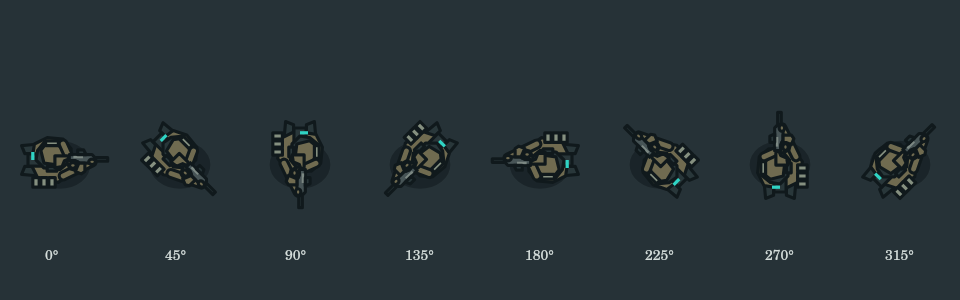
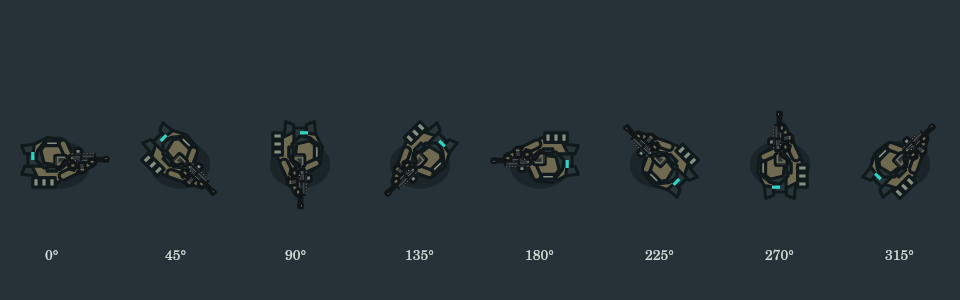
개선: 주무기 구조 묘사와 실제 상태 기반 장전·작업 동작

diff --git a/artifacts/draft-order-player-generator/src/components/weaponParts.ts b/artifacts/draft-order-player-generator/src/components/weaponParts.ts
@@ -1,39 +1,145 @@
 // 축척은 중계 식별용입니다. 총구는 원점, 개머리판은 음의 X, 탄창은 양의 Y입니다.
 type Point=[number,number];
 type WeaponPart={id:string;length:number;body:Point[];stock:Point[];mag:Point[];grip:number;support:number;barrel:number;suppressor?:boolean;optic:'dot'|'scope'|'rail';color:string};
-const ar:Point[]=[[-32,-4],[-13,-4],[-11,-2],[-12,3],[-23,3],[-27,1],[-32,1]];
-const stock:Point[]=[[-44,-3],[-34,-3],[-31,-1],[-36,1],[-38,6],[-44,7]];
-const mag:Point[]=[[-24,3],[-19,3],[-19,10],[-22,12],[-27,10]];
+const ar:Point[]=[[-32,-3],[-30,-4],[-14,-4],[-12,-3],[-11,-1],[-12,2],[-20,2],[-21,4],[-24,4],[-25,2],[-28,1],[-31,1],[-32,0]];
+const stock:Point[]=[[-44,-3],[-42,-3.5],[-35,-3.5],[-34,-2],[-31,-2],[-31,0],[-36,1],[-37,2],[-39,6],[-43,6.5],[-44,5]];
+const mag:Point[]=[[-24,3],[-19,3],[-18.8,6],[-18,9],[-20,11],[-24.5,11.5],[-25,10],[-22.5,9],[-23.5,6]];
 const w=(id:string,length:number,body:Point[],rear:Point[],magazine:Point[],grip:number,support:number,barrel:number,optic:WeaponPart['optic'],color:string,suppressor=false):WeaponPart=>({id,length,body,stock:rear,mag:magazine,grip,support,barrel,optic,color,suppressor});
 export const WEAPON_PARTS:WeaponPart[]=[
  w('L119',44,ar,stock,mag,-29,-13,10,'dot','#656953'),
- w('MP5SD',40,[[-28,-3],[-15,-3],[-14,2],[-25,3],[-29,1]],[[-40,-3],[-29,-3],[-28,0],[-35,1],[-37,6],[-40,6]],[[-23,3],[-19,3],[-17,10],[-20,13],[-25,5]],-27,-14,15,'rail','#485455',true),
- w('HK416',43,[[-31,-4],[-9,-4],[-8,2],[-23,3],[-28,1],[-31,1]],stock,mag,-29,-13,7,'dot','#505C60'),
+ w('MP5SD',40,[[-28,-3],[-15,-3],[-14,2],[-25,3],[-29,1]],[[-40,-3],[-39,-3.5],[-31,-3],[-29,-2],[-28,0],[-32,1],[-35,1.5],[-37,5],[-39.5,5.5],[-40,4]],[[-23,3],[-19,3],[-17,10],[-20,13],[-25,5]],-27,-14,15,'rail','#485455',true),
+ w('HK416',43,[[-31,-3],[-29,-4],[-10,-4],[-9,-3],[-8,0],[-9,2],[-21,2],[-22,3.5],[-25,3.5],[-26,2],[-28,1],[-31,1]],stock,mag,-29,-13,7,'dot','#505C60'),
  w('X95',36,[[-35,-6],[-10,-6],[-7,-3],[-10,3],[-20,3],[-24,0],[-35,3]],[[-36,-5],[-32,-5],[-32,5],[-36,6]],[[-30,3],[-25,3],[-24,11],[-29,12]],-20,-10,6,'dot','#827D60'),
- w('MPX',35,[[-26,-4],[-9,-4],[-8,1],[-22,3],[-26,1]],[[-35,-3],[-28,-3],[-25,0],[-31,1],[-33,5],[-35,5]],[[-20,3],[-17,3],[-18,12],[-22,12]],-25,-10,7,'dot','#53656B'),
+ w('MPX',35,[[-26,-4],[-9,-4],[-8,1],[-22,3],[-26,1]],[[-35,-3],[-34,-3.5],[-29,-3],[-28,-2],[-25,-1],[-25,0],[-30,1],[-32,4.5],[-34,5],[-35,4]],[[-20,3],[-17,3],[-18,12],[-22,12]],-25,-10,7,'dot','#53656B'),
  w('AS Val',44,[[-32,-3],[-19,-3],[-17,0],[-20,3],[-29,2]],[[-44,-3],[-34,-3],[-31,0],[-39,1],[-41,5],[-44,5]],[[-27,3],[-22,3],[-20,9],[-23,12],[-29,7]],-31,-17,18,'rail','#515A4C',true),
  w('HK417',48,[[-34,-4],[-11,-4],[-10,2],[-26,3],[-31,1]],stock,[[-27,3],[-20,3],[-20,11],[-27,11]],-32,-14,9,'scope','#596360'),
- w('PSG',53,[[-38,-3],[-20,-3],[-12,-1],[-15,2],[-35,3]],[[-53,-4],[-42,-4],[-36,0],[-43,2],[-43,8],[-52,8]],[[-30,3],[-24,3],[-24,8],[-30,8]],-38,-18,12,'scope','#4B5653'),
+ w('PSG',53,[[-38,-3],[-20,-3],[-12,-1],[-15,2],[-35,3]],[[-53,-3],[-51,-4],[-44,-3],[-42,-2],[-40,-1],[-36,0],[-38,2],[-42,2],[-44,4],[-45,6],[-52,7],[-53,6]],[[-30,3],[-24,3],[-24,8],[-30,8]],-38,-18,12,'scope','#4B5653'),
  w('P90',33,[[-32,-6],[-10,-6],[-7,-3],[-9,4],[-17,6],[-25,3],[-32,5]],[[-33,-5],[-30,-5],[-30,6],[-33,6]],[[-29,-9],[-10,-9],[-10,-6],[-29,-6]],-23,-11,6,'rail','#6D7360'),
- w('C14',57,[[-40,-3],[-23,-3],[-21,-1],[-12,-1],[-12,2],[-39,3]],[[-57,-4],[-43,-4],[-38,0],[-44,2],[-47,7],[-57,7]],[[-30,3],[-24,3],[-24,7],[-30,7]],-39,-20,12,'scope','#8A8165'),
+ w('C14',57,[[-40,-3],[-23,-3],[-21,-1],[-12,-1],[-12,2],[-39,3]],[[-57,-2],[-55,-3],[-48,-3],[-45,-2],[-43,-1],[-38,0],[-37,2],[-40,3],[-42,2],[-45,3],[-48,6],[-55,7],[-57,6]],[[-30,3],[-24,3],[-24,7],[-30,7]],-39,-20,12,'scope','#8A8165'),
  w('K1A',41,[[-29,-3],[-14,-3],[-10,0],[-14,3],[-26,2]],[[-41,-3],[-30,-3],[-28,-1],[-39,-1],[-39,5],[-41,5]],[[-23,3],[-18,3],[-18,9],[-21,12],[-26,10]],-28,-14,10,'rail','#586455'),
- w('ARX',42,[[-33,-5],[-15,-5],[-10,-2],[-11,3],[-25,4],[-33,1]],[[-42,-3],[-33,-3],[-30,0],[-36,2],[-39,7],[-42,6]],mag,-30,-12,9,'dot','#726F5C'),
+ w('ARX',42,[[-33,-5],[-15,-5],[-10,-2],[-11,3],[-25,4],[-33,1]],[[-42,-3],[-40,-4],[-35,-3],[-33,-2],[-30,-1],[-30,1],[-35,2],[-37,3],[-39,6],[-41,6],[-42,5]],mag,-30,-12,9,'dot','#726F5C'),
 ];
 export function weaponPart(name:string):WeaponPart{return WEAPON_PARTS.find(part=>name.includes(part.id))??WEAPON_PARTS[0];}
-// 전장에서는 이 도형을 몸체와 함께 회전합니다. 화면 기준 좌우 반전은 하지 않습니다.
-export function paintWeaponPart(ctx:CanvasRenderingContext2D,name:string,accent?:string,outline=2):void{
- const part=weaponPart(name),ink='#10191C',base='#475456',shade='#29373A',tint=accent??part.color;
- ctx.strokeStyle=ink;ctx.lineWidth=outline;ctx.lineJoin='round';
- const poly=(points:Point[],fill:string)=>{ctx.fillStyle=fill;ctx.beginPath();points.forEach(([x,y],i)=>i?ctx.lineTo(x,y):ctx.moveTo(x,y));ctx.closePath();ctx.fill();ctx.stroke();};
- const box=(x:number,y:number,w:number,h:number,fill:string)=>{ctx.fillStyle=fill;ctx.fillRect(x,y,w,h);ctx.strokeRect(x,y,w,h);};
- poly(part.stock,tint);poly(part.body,base);poly(part.mag,tint);
- poly([[part.grip,1],[part.grip+4,2],[part.grip+2,9],[part.grip-2,8]],shade);
- box(-part.barrel,-(part.suppressor?3:1.5),part.barrel,part.suppressor?6:3,shade);
- // 잔선 대신 리시버 상면과 광학 장치만 큰 면으로 남깁니다.
- ctx.fillStyle='#7C8883';ctx.fillRect(-part.length*.65,-3,8,2);
- if(part.optic==='scope'){box(-part.length*.72,-9,17,4,shade);}
- if(part.optic==='dot')poly([[-25,-4],[-25,-8],[-20,-8],[-18,-4]],shade);
- if(part.id==='P90'){ctx.fillStyle='#8E957E';ctx.fillRect(-28,-8,16,2);ctx.fillStyle=shade;ctx.beginPath();ctx.ellipse(-19,2,3,2,0,0,Math.PI*2);ctx.fill();}
- // 손도 군장과 같은 저채도 강조색을 사용합니다.
- ctx.fillStyle=tint;for(const [x,y] of [[part.grip,5],[part.support,2]]){ctx.beginPath();ctx.ellipse(x,y,2.8,2.3,0,0,Math.PI*2);ctx.fill();ctx.stroke();}
+export interface WeaponPose { hands?:boolean; magazineTravel?:number; }
+// 외형 구조는 총종별로 분리합니다. 장식용 잔선 대신 재질·결합부·음각을 그립니다.
+export function paintWeaponPart(ctx:CanvasRenderingContext2D,name:string,accent?:string,outline=2,pose:WeaponPose={}):void{
+ const part=weaponPart(name),ink='#101518',metal='#43494B',edge='#727B7C',dark='#272D30',polymer=part.color,tape=accent??part.color;
+ ctx.save();ctx.strokeStyle=ink;ctx.lineWidth=outline;ctx.lineJoin='round';
+ const poly=(points:Point[],fill:string,stroke=true)=>{ctx.fillStyle=fill;ctx.beginPath();points.forEach(([x,y],i)=>i?ctx.lineTo(x,y):ctx.moveTo(x,y));ctx.closePath();ctx.fill();if(stroke)ctx.stroke();};
+ const box=(x:number,y:number,w:number,h:number,fill:string,stroke=true)=>{ctx.fillStyle=fill;ctx.fillRect(x,y,w,h);if(stroke)ctx.strokeRect(x,y,w,h);};
+ const line=(points:Point[],color:string,width=.65)=>{ctx.strokeStyle=color;ctx.lineWidth=width;ctx.beginPath();points.forEach(([x,y],i)=>i?ctx.lineTo(x,y):ctx.moveTo(x,y));ctx.stroke();ctx.strokeStyle=ink;ctx.lineWidth=outline;};
+ const circle=(x:number,y:number,r:number,fill:string)=>{ctx.fillStyle=fill;ctx.beginPath();ctx.arc(x,y,r,0,Math.PI*2);ctx.fill();};
+ const arFamily=['L119','HK416','HK417','MPX'].includes(part.id);
+ // 개머리판의 빈 공간은 실제 구멍으로 남겨 바닥색이 보입니다.
+ const frame=(outer:Point[],inner:Point[],fill:string)=>{ctx.fillStyle=fill;ctx.beginPath();for(const points of [outer,inner]){points.forEach(([x,y],i)=>i?ctx.lineTo(x,y):ctx.moveTo(x,y));ctx.closePath();}ctx.fill('evenodd');ctx.stroke();};
+ if(part.id==='AS Val'){
+  frame([[-44,-3],[-33,-3],[-30,0],[-40,5],[-44,5]],[[-42,-1],[-35,-1],[-33,0],[-41,3],[-42,3]],dark);
+ }else if(part.id==='K1A'){
+  line([[-29,-2],[-41,-2],[-41,5]],ink,outline+1);line([[-29,-2],[-41,-2],[-41,5]],edge,.8);
+ }else{
+  poly(part.stock,polymer);
+  const rear=-part.length;
+  box(rear,-2,1.5,7,dark,false);
+  if(arFamily){
+   poly([[rear+3,-1],[rear+9,-1],[rear+6,1],[rear+3,3]],dark,false);
+   line([[rear+2,-2],[rear+8,-2]],edge);box(-34,-2,4,2,dark,false);
+  }
+ }
+ if(part.id==='PSG'||part.id==='C14'){
+  box(-part.length+2,-5,10,3,polymer);line([[-part.length+4,-4],[-part.length+10,-4]],edge);
+  if(part.id==='PSG'){box(-part.length,-1,2,9,dark,false);box(-40,8,7,2,polymer);}
+ }
+ // 하부 손잡이·방아쇠울과 리시버를 분리합니다. 불펍과 P90은 고유 구조입니다.
+ if(part.id==='P90'){
+  frame([[-32,-5],[-9,-5],[-7,-2],[-9,6],[-15,7],[-22,4],[-29,7],[-32,5]],[[-26,0],[-22,-1],[-20,1],[-22,4],[-26,4]],polymer);
+  frame([[-17,-1],[-9,-1],[-10,6],[-15,6]],[[-15,1],[-11,1],[-12,4],[-14,4]],polymer);
+ }else{
+  frame([[part.grip+1,1],[part.grip+9,1],[part.grip+8,7],[part.grip+2,7]],[[part.grip+3,2],[part.grip+7,2],[part.grip+6,5],[part.grip+3,5]],dark);
+  poly([[part.grip,1],[part.grip+3,2],[part.grip+1,9],[part.grip-3,8]],part.id==='PSG'?'#716653':dark);
+  poly(part.body,part.id==='X95'||part.id==='ARX'?polymer:metal);
+  line([[part.grip+4,2],[part.grip+4.5,3.5],[part.grip+3.5,4]],edge,.6);
+ }
+ box(-part.barrel,-(part.suppressor?2.7:1),part.barrel,part.suppressor?5.4:2,dark);
+ if(part.suppressor){
+  box(-part.barrel+.8,-2.2,part.barrel-2,1.3,metal,false);
+  line([[-1.5,-2.3],[-1.5,2.3]],edge,.7);
+ }else{
+  box(-2.8,-1.5,2.8,3,dark);line([[-2,-.8],[-1,-.8]],edge,.6);
+ }
+ const front=-part.barrel-1;
+ if(arFamily){
+  const start=part.id==='HK417'?-24:part.id==='MPX'?-17:-22;
+  poly([[start,-4],[front,-4],[front,2],[start,2]],dark);
+  box(start+.8,-3.3,front-start-1.5,1.1,metal,false);
+  for(let x=start+1.8;x<front-1;x+=3.4)box(x,-1.5,1.8,1.2,ink,false);
+  line([[start+.7,1],[front-.7,1]],edge,.55);
+  box(part.grip+1,-2.7,5.5,1.8,ink,false);box(part.grip+1.4,-2.4,4.5,.6,edge,false);
+  line([[part.grip-1,0],[start-1,0],[start-1,2]],dark,.65);
+  circle(part.grip-1,-1,.65,edge);circle(part.grip+2,1,.6,edge);
+  // 레일은 실제 장착부의 짧은 돌기만 남깁니다.
+  box(part.grip-2,-5,front-part.grip+2,1,dark,false);
+  for(let x=part.grip-1;x<front;x+=2.5)box(x,-5.2,.8,.7,edge,false);
+ }else if(part.id==='MP5SD'){
+  box(-18,-3.6,5.5,7,dark);for(let x=-17;x<-13;x+=1.4)line([[x,-2.6],[x,2.5]],metal,.6);
+  box(-27,-2.5,6,1.6,dark,false);line([[-27,-2.6],[-21,-2.6]],edge);
+  line([[-24,-4],[-19,-4],[-18,-5]],edge,1);
+  frame([[-15,-3],[-15,-6],[-12,-6],[-12,-3]],[[-14,-3.5],[-14,-5],[-13,-5],[-13,-3.5]],dark);
+ }else if(part.id==='AS Val'){
+  line([[-31,-2],[-21,-2]],edge,1);box(-26,-1.5,5,1.5,dark,false);
+  poly([[-21,-2],[-17,-2],[-16,3],[-21,3]],polymer);
+  box(-12,-4,2,1.5,dark);box(-30,-4,3,1.5,dark);
+ }else if(part.id==='X95'){
+  box(-34,-4,2,7,dark,false);box(-31,-4,8,1.7,dark,false);line([[-30,-3.7],[-25,-3.7]],edge);
+  frame([[-22,1],[-12,1],[-13,8],[-19,9]],[[-19,3],[-14,3],[-15,6],[-18,6]],polymer);
+  for(let x=-17;x<-10;x+=2.8)box(x,-3,1.4,2,dark,false);
+  box(-28,-7,17,1.2,dark,false);
+ }else if(part.id==='ARX'){
+  poly([[-32,-3.8],[-18,-3.8],[-13,-1.2],[-26,-1.2]],metal,false);
+  box(-30,-2.6,7,1.4,dark,false);line([[-29,-2.4],[-25,-2.4]],edge);
+  for(let x=-19;x<-12;x+=2.6)box(x,-.5,1.2,1.7,dark,false);
+  line([[-32,-3],[-32,1]],edge,1);box(-29,-6,16,1.1,dark,false);
+ }else if(part.id==='K1A'){
+  poly([[-19,-3],[-14,-3],[-10,0],[-14,3],[-19,2]],dark);
+  for(let x=-17;x<-12;x+=2)line([[x,-1],[x,1]],edge,.55);
+  box(-27,-2,6,1.4,dark,false);line([[-27,-2],[-23,-2]],edge);
+  frame([[-11,-1],[-11,-5],[-9,-5],[-8,-1]],[[-10,-1],[-10,-3.5],[-9.5,-3.5],[-9,-1]],dark);
+ }else if(part.id==='PSG'||part.id==='C14'){
+  poly([[-25,-1],[-14,-1],[-15,3],[-23,3]],polymer,false);
+  line([[-37,-2],[-26,-2]],edge,1);
+  if(part.id==='C14'){line([[-31,0],[-30,3]],edge,1.2);circle(-30,3,1.1,dark);}
+  else{box(-34,-1.5,6,1.5,dark,false);line([[-22,1],[-15,1]],dark,.7);}
+ }
+ // 탄창을 독립 파츠로 조립합니다. P90만 상부로 분리됩니다.
+ const travel=pose.magazineTravel??0,magY=part.id==='P90'?-travel:travel;
+ ctx.save();ctx.translate(0,magY);
+ poly(part.mag,part.id==='P90'?'#77775F':part.id==='AS Val'?'#343C34':dark);
+ if(part.id==='P90'){
+  box(-28,-8.4,16,1.6,'#98977A',false);
+  for(let x=-27;x<-12;x+=2.5)line([[x,-8.2],[x+.7,-7]],'#5B5A47',.7);
+ }else{
+  const mx=part.mag[0][0],my=part.mag[0][1];
+  line([[mx+1.4,my+1.2],[mx+2.2,my+5]],metal,.8);
+  line([[mx+3,my+1.2],[mx+3.8,my+5]],metal,.8);
+  // 장비색은 작은 식별 테이프만 사용합니다. 금속 탄창 전체를 팀색으로 칠하지 않습니다.
+  poly([[mx+1,my+5],[mx+4,my+5],[mx+4.5,my+6.2],[mx+1.5,my+6.2]],tape,false);
+ }
+ ctx.restore();
+ if(part.optic==='scope'){
+  const x=-part.length*.72;
+  box(x+3,-6,2,2,dark);box(x+11,-6,2,2,dark);
+  poly([[x,-9],[x+4,-9],[x+5,-8],[x+12,-8],[x+14,-10],[x+19,-10],[x+19,-5],[x+14,-5],[x+12,-6],[x+5,-6],[x+4,-5],[x,-5]],dark);
+  line([[x+1,-8],[x+4,-8],[x+5,-7],[x+12,-7]],edge,.7);box(x+8,-10,2.5,2,dark);box(x+17,-9,1,3,metal,false);
+ }else if(part.optic==='dot'){
+  const x=part.id==='X95'?-20:part.id==='MPX'?-23:-27;
+  poly([[x,-4.5],[x,-8],[x+1,-9],[x+4,-9],[x+5,-8],[x+5,-4.5]],dark);
+  box(x+1,-7.8,2.5,2.1,'#7C8D87',false);box(x-.5,-5,6,1,dark,false);
+ }else if(part.id==='P90'){
+  frame([[-23,-9],[-23,-13],[-12,-13],[-10,-9]],[[-21,-10],[-21,-11.5],[-14,-11.5],[-13,-10]],dark);
+ }
+ if(pose.hands!==false){
+  const mx=(part.mag[0][0]+part.mag[1][0])/2;
+  const hands:Point[]=[[part.grip,5],travel>0?[mx,(part.id==='P90'?-7:6)+magY]:[part.support,2]];
+  ctx.fillStyle=tape;for(const [x,y] of hands){ctx.beginPath();ctx.ellipse(x,y,2.8,2.3,0,0,Math.PI*2);ctx.fill();ctx.stroke();}
+ }
+ ctx.restore();
 }

diff --git a/artifacts/draft-order-player-generator/src/components/minimalOperator.ts b/artifacts/draft-order-player-generator/src/components/minimalOperator.ts
@@ -1,4 +1,4 @@
-import type { RealtimeUnitState } from '../domain/realtime/TacticalRealtimeSimulation';
+import type { RealtimeUnitState, RealtimeGadget } from '../domain/realtime/TacticalRealtimeSimulation';
 import { paintWeaponPart, weaponPart } from './weaponParts';
 import { muzzlePosition } from '../domain/operatorVisuals';
 
@@ -37,10 +37,24 @@ export function weaponSilhouette(name:string):'carbine'|'suppressed'|'bullpup'|'
   return 'carbine';
 }
 
+export interface OperatorMotion { reloadStartedAt?:number; thrown?:RealtimeGadget; }
+
 /** 가파른 탑뷰의 한 로컬 좌표계를 머리·군장·팔·총기가 연속적으로 공유합니다. */
-export function paintMinimalOperator(ctx:CanvasRenderingContext2D,unit:RealtimeUnitState,time:number,shotAt:number|undefined,_asset:PartLoader,reducedMotion=false):boolean {
+export function paintMinimalOperator(ctx:CanvasRenderingContext2D,unit:RealtimeUnitState,time:number,shotAt:number|undefined,_asset:PartLoader,reducedMotion=false,motion:OperatorMotion={}):boolean {
   const kit=KITS[unit.callSign]??KITS.MAGPIE,part=weaponPart(unit.weaponName??'');
-  const down=Boolean(unit.downed)||!unit.alive,crouch=unit.locomotion==='crouch';
+  const down=Boolean(unit.downed)||!unit.alive;
+  const installing=!down&&(unit.action==='plant'||unit.action==='disable'||unit.action==='utility'&&/설치/.test(unit.goal??''));
+  const crouch=unit.locomotion==='crouch'||installing;
+  // 시작 사건과 남은 시간으로 진행률을 계산하므로 정지·탐색에서도 같은 자세입니다.
+  const elapsed=motion.reloadStartedAt===undefined?0:Math.max(0,time-motion.reloadStartedAt);
+  const reload=!down&&unit.action==='reload'&&unit.reloadRemaining>0;
+  const progress=reload?elapsed/Math.max(.001,elapsed+unit.reloadRemaining):0;
+  const travel=reload&&!reducedMotion?Math.sin(Math.PI*progress)*9:0;
+  const thrown=motion.thrown;
+  const throwAge=thrown?.thrownAt===undefined?-1:time-thrown.thrownAt;
+  // 이미 발사된 투척물의 후속 팔 동작만 표시합니다. 가짜 수류탄을 손에 생성하지 않습니다.
+  const throwing=!down&&!reload&&!installing&&throwAge>=0&&throwAge<.45;
+  const throwReach=throwing?(reducedMotion?8:15*(1-throwAge/.45)):0;
   const moving=Math.hypot(unit.velocity.x,unit.velocity.y)>1&&unit.alive;
   const step=!reducedMotion&&moving&&!down?Math.sin(time*(unit.locomotion==='sprint'?15:10)):0;
   const age=shotAt===undefined?1:time-shotAt,kick=!reducedMotion&&age>0&&age<.14?Math.sin(age/.14*Math.PI)*1.2:0;
@@ -76,13 +90,24 @@ export function paintMinimalOperator(ctx:CanvasRenderingContext2D,unit:RealtimeU
   box(-9,-12,8,3,light);box(-8,4,6,3,shade);
   ctx.fillStyle=unit.side==='공격'?'#2FD4C4':'#F0873C';ctx.fillRect(-18,-5,2,5);
   if(!down){
-    for(const [index,[x,y]] of [[part.grip-kick,5],[part.support-kick,2]].entries()){
+    const magX=(part.mag[0][0]+part.mag[1][0])/2;
+    const support=travel>0?[magX,(part.id==='P90'?-7-travel:6+travel)]:[part.support,2];
+    for(const [index,[x,y]] of [[part.grip-kick,5],[support[0]-kick,support[1]]].entries()){
+      if(installing||throwing&&index===1)continue;
       const hand={x:tip.x+x*.75,y:tip.y+y*.75},shoulder={x:2,y:index?10:-10};
       ctx.strokeStyle=ink;ctx.lineWidth=7;ctx.beginPath();ctx.moveTo(shoulder.x,shoulder.y);ctx.lineTo(hand.x,hand.y);ctx.stroke();ctx.strokeStyle=kit.color;ctx.lineWidth=3;ctx.stroke();
     }
     // 무기는 언제나 전방에 그립니다. 270도도 별도 가림·거울 반전 분기가 없습니다.
-    ctx.save();ctx.translate(tip.x,tip.y);ctx.scale(.75,.75);ctx.translate(-kick,0);paintWeaponPart(ctx,unit.weaponName??'',kit.color,outline/.75);
+    ctx.save();ctx.translate(tip.x,tip.y);if(installing){ctx.translate(-9,14);ctx.rotate(-.25);}ctx.scale(.75,.75);ctx.translate(-kick,0);paintWeaponPart(ctx,unit.weaponName??'',kit.color,outline/.75,{hands:!installing&&!throwing,magazineTravel:travel});
     if(unit.shieldRaised){ctx.fillStyle=shade;ctx.strokeStyle=ink;ctx.lineWidth=outline/.75;ctx.fillRect(-5,-18,7,36);ctx.strokeRect(-5,-18,7,36);ctx.fillStyle=light;ctx.fillRect(-4,-9,5,9);}ctx.restore();
+    if(installing||throwing){
+      const hands=installing?[[13,-6],[13,7]]:[[tip.x+(part.grip-kick)*.75,tip.y+3.75],[15+throwReach,13]];
+      for(const [index,[x,y]] of hands.entries()){
+        ctx.strokeStyle=ink;ctx.lineWidth=7;ctx.beginPath();ctx.moveTo(2,index?10:-10);ctx.lineTo(x,y);ctx.stroke();ctx.strokeStyle=kit.color;ctx.lineWidth=3;ctx.stroke();
+        ctx.fillStyle=kit.color;ctx.strokeStyle=ink;ctx.lineWidth=outline;ctx.beginPath();ctx.ellipse(x,y,2.7,2.2,0,0,Math.PI*2);ctx.fill();ctx.stroke();
+      }
+      // 작업 자세만 표현합니다. 설치물 생성·진행률·성공 판정은 엔진에 남깁니다.
+    }
   }
   ctx.restore();return true;
 }

diff --git a/artifacts/draft-order-player-generator/src/components/BroadcastCanvas.tsx b/artifacts/draft-order-player-generator/src/components/BroadcastCanvas.tsx
@@ -148,7 +148,7 @@ export function BroadcastCanvas(props: Props): ReactElement {
       // 앞·뒤·옆 몸체와 장비를 조립하고 사격 반동은 실제 발사 사건에만 연결합니다.
       for(const unit of visible){
         const shotAt=events.findLast(event=>event.actor===unit.id&&event.type==='shot'&&time-event.time<.14)?.time;
-        if(!paintMinimalOperator(ctx,unit,time,shotAt,asset,reducedMotion||p.paused))continue;
+        if(!paintMinimalOperator(ctx,unit,time,shotAt,asset,reducedMotion,{reloadStartedAt:events.findLast(event=>event.actor===unit.id&&event.type==='reload'&&event.message.includes('장전 시작'))?.time,thrown:snapshot.gadgets?.find(gadget=>gadget.owner===unit.id&&gadget.thrownAt!==undefined&&time>=gadget.thrownAt&&time-gadget.thrownAt<.45)}))continue;
         // 다운은 사망과 다른 실제 상태입니다. 자세별 원화 전에는 명확한 구조 표식을 사용합니다.
         if(unit.downed){ctx.save();ctx.strokeStyle='#FFC53D';ctx.lineWidth=2;ctx.beginPath();ctx.moveTo(unit.position.x-5,unit.position.y-23);ctx.lineTo(unit.position.x+5,unit.position.y-23);ctx.moveTo(unit.position.x,unit.position.y-28);ctx.lineTo(unit.position.x,unit.position.y-18);ctx.stroke();if(unit.downed.progress>0){ctx.beginPath();ctx.arc(unit.position.x,unit.position.y,21,-Math.PI/2,-Math.PI/2+Math.PI*2*unit.downed.progress);ctx.stroke();}ctx.restore();}
         if(unit.side===p.side){hitTargets.push({id:unit.id,x:ox+(unit.position.x-camera.x)*scale,y:oy+(unit.position.y-camera.y)*scale});if(unit.id===p.selectedId){ctx.strokeStyle='#FFC53D';ctx.lineWidth=1.5;ctx.beginPath();ctx.arc(unit.position.x,unit.position.y,18,0,Math.PI*2);ctx.stroke();}}

diff --git a/docs/weapon-art-standard.md b/docs/weapon-art-standard.md
@@ -1,0 +1,30 @@
+# 총기 파츠의 최소 기준 — 2026-09-12 최신 피드백
+
+사용자가 첨부한 IMG_0013(1).webp, IMG_0016(1).webp 두 총기 시트는 **최소 품질 기준**입니다. 굵은 외곽선과 큰 색면은 유지하되, 미니멀을 이유로 리시버·탄창·총열·조준장치의 구조를 지우면 안 됩니다. 참고 시트의 그림을 복사하지 않고 우리 게임의 파츠를 작성합니다.
+
+## 이번 반영
+
+- 12개 주무기에 하부 리시버, 방아쇠울, 개머리판, 탄창, 총열, 장착부를 구분했습니다. 프레임 개머리판과 P90의 구멍은 바닥색이 실제로 투과합니다.
+- L119/HK416/HK417/MPX의 손잡이·탄창·핸드가드를 구분하고, MP5SD의 일체형 소음기와 전방 조준기, AS Val의 프레임 개머리판·소음기, X95의 후방 탄창·전방 손잡이울, P90의 상부 탄창·썸홀, 정밀소총의 조준경·칙피스, K1A의 인입식 개머리판, ARX의 폴리머 외장을 반영했습니다.
+- 재질은 금속/폴리머의 큰 면과 소수의 음각으로 읽힙니다. 군장색은 소형 테이프·장갑에 사용하고 탄창 전체를 팀색으로 칠하지 않습니다.
+- 확대 비교표와 경기 중계가 같은 렌더러를 씁니다. 비교표에서만 손을 숨겨 구조를 검토합니다. 경기에서는 월드 2단위 외곽선과 연속 회전을 유지합니다.
+- 장전은 실제 시작 사건과 남은 시간으로 탄창·지지 손을 이동합니다. P90은 위로, 일반 탄창은 아래로 분리합니다. 완료 후 실제 상태에 맞춰 복귀합니다. 탄약 수치는 표시 코드가 변경하지 않습니다.
+- 투척은 실제 투척 시점 이후 0.45초 동안의 팔 후속 동작입니다. 가짜 발사체·피해·성공 로그를 생성하지 않습니다. 설치는 실제 작업 상태에서 낮은 자세·작업 손·내린 총기로 표시합니다. 설치 도구별 세부 손동작과 소생 동작은 남아 있습니다.
+
+## 구조 대조에 사용한 1차 자료
+
+| 대상 | 공식 자료 | 확인 범위 |
+|---|---|---|
+| HK416 | [Heckler & Koch](https://www.heckler-koch.com/en/Products/Military%20and%20Law%20Enforcement/Assault%20rifles/HK416) | AR 계열 외장과 핸드가드. 생산 세대·총열 길이까지 실측 복제한 것은 아님 |
+| HK417 | [Heckler & Koch](https://www.heckler-koch.com/en/Products/Military%20and%20Law%20Enforcement/Assault%20rifles/HK417) | HK416과 다른 리시버·탄창 규모 |
+| MP5SD | [HK USA](https://hk-usa.com/product/mp5sd/) | 일체형 소음기와 MP5 계열 외형 |
+| X95 | [IWI X95](https://iwi.net/iwi-x95/) | 불펍 구조와 후방 탄창 |
+| P90 | [FN America](https://fnamerica.com/products/rifles/fn-p90/) | 상부 탄창과 썸홀 폴리머 몸체 |
+| SIG MPX | [SIG Sauer](https://www.sigsauer.com/firearms/rifles-pistols/sigmpx.html) | MPX 계열. 게임의 정확한 세부 모델 확정은 남아 있음 |
+| ARX160 | [Beretta Defense ARX160 11인치](https://www.berettadefense.com/products/arx160-11-bdt/) | 폴리머 외장·접이식/길이 조절 개머리판. 게임 축척은 식별용 |
+
+L119A2·AS Val·PSG-1·C14·K1A의 세대별 세부 형상은 추가 원자료 검수가 필요합니다. C14 제조사로 알려진 옛 도메인이 무관한 사이트로 연결되어 이번 고증 근거에서 제외했습니다. 군장 조합과 강조색은 창작이며 실부대 지급품을 인증한 것이 아닙니다.
+
+## 완료 판정과 남은 한계
+
+96방향 총구/실루엣, 8개 경계 연속성, 18개 동작 계약, Canvas 11장면, UI 5그룹, 타입 및 빌드를 확인했습니다. 이것은 구조·표시 회귀 검증이며 **참고 이미지와 동급의 미술 품질을 자동으로 증명하지 않습니다**. 특히 정밀소총의 곡면과 세부 모델 고증은 후속 시각 검수가 필요합니다. 실제 휴대폰 관전 성능과 공수 균형은 별도 과제입니다.

diff --git a/docs/PROJECT_STATE.md b/docs/PROJECT_STATE.md
@@ -76,11 +76,19 @@
 - 96방향 합성, 8개 경계 앞뒤의 알파 반영 픽셀 연속성, 실제 총구 좌표·반사 없는 균일 축척, 36개 군장 합성, Canvas 11장면·터치, UI 5그룹, 타입·빌드 검사 통과. 구형 방향 선택 함수 검사는 제거하고 실제 새 합성의 연속성·무기 가시성 검사로 대체했습니다.
 - 직전 주무기 커밋 6fcded06은 Replit a6b07457d9b6a16c7d319ba445fe15878ea19deb에 포함, clean/HTTP 200/기존 포트 보존 보고를 받았습니다.
 
+## 총기 묘사 강화와 상태 동작 — 최신 결정
+
+- 사용자 첨부 총기 시트 두 장을 최소 품질 기준으로 고정했습니다. 이전 항목의 레일·노리쇠·탄창 홈 일괄 삭제 방침은 폐기합니다. 실제 구조를 읽게 하는 묘사를 남기고 소음성 잔선만 줄입니다.
+- 12종 리시버·탄창·개머리판·조준장치·소음기를 분리해 다시 그렸습니다. 확대 비교와 전장 파츠는 같은 렌더러입니다. 공식 자료 확인 범위와 미검수 모델은 weapon-art-standard.md에 기록했습니다. 세대별 완전 고증이나 참고 이미지와의 동급 품질을 자동 검증 완료로 주장하지 않습니다.
+- 실제 장전 사건/남은 시간에 탄창과 지지 손을 연결했습니다. P90 상부 탄창과 하부 탄창은 다른 방향으로 이동합니다. 실제 투척 이후 팔 후속 동작, 실제 설치 상태의 낮은 자세와 작업 손을 추가했습니다. 다운 시 중단, 동작 줄이기, 정지/탐색의 동일 시점 재현을 검사합니다.
+- 96방향·8경계 연속성, 36군장, 18동작 계약, Canvas 11장면·터치, UI 5그룹, 타입·빌드 통과. 엔진의 전투·탄약·명중·총구 위치는 변경하지 않았습니다.
+- 직전 86d5528은 Replit cf8c281584c925b684be1384eb28b641797bb71c에 포함됐고 clean/HTTP 200/기존 포트 보존 보고를 받았습니다. 당시 고아 Git 잠금 복구가 필요했으며 중복 서버 시작의 실패 표시가 남았습니다. 후속 동기화는 기존 실행 프로세스를 재사용하고 실제 새 모듈 제공 여부를 확인해야 합니다.
+
 ## 남은 작업의 순서
 
-1. 이번 전술 대응 커밋의 GitHub/Replit 적용 결과 확인. Replit은 Free 동기화·실행만, 기존 작업·포트 보존.
+1. 이번 총기 파츠·동작 커밋의 GitHub/Replit 적용 결과 확인. Replit은 Free 동기화·실행만, 기존 작업·포트 보존.
 2. 편성·진입로·거점을 교차한 공수 평가와 실제 휴대폰 관전·지연 검사. 로컬 주소 브라우저 접근 차단으로 모바일 실기기 확인은 아직 못 했습니다.
 3. 층·계단·해치·층간 관측/탄도/경로/표시를 함께 구현하는 수직 교전. 현재 지도는 단층이며 임의의 버티컬 피해 보너스는 없습니다.
-4. 설치 방패 회수와 장전/투척/설치/소생의 고유 파츠 동작 확대. 12명별 PNG 풀세트 제작·실부대 지급품 고증은 완료 상태가 아닙니다.
+4. 설치 방패 회수와 설치 장비별 세부 작업/소생의 고유 파츠 동작 확대. 12명별 PNG 풀세트 제작·실부대 지급품 고증은 완료 상태가 아닙니다.
 
 요청별 반영표: tactical-counterplay-update.md. 이전 세부 구현: tactical-pressure-update.md. 아트 중단·후속 목록: operator-action-production.md.
